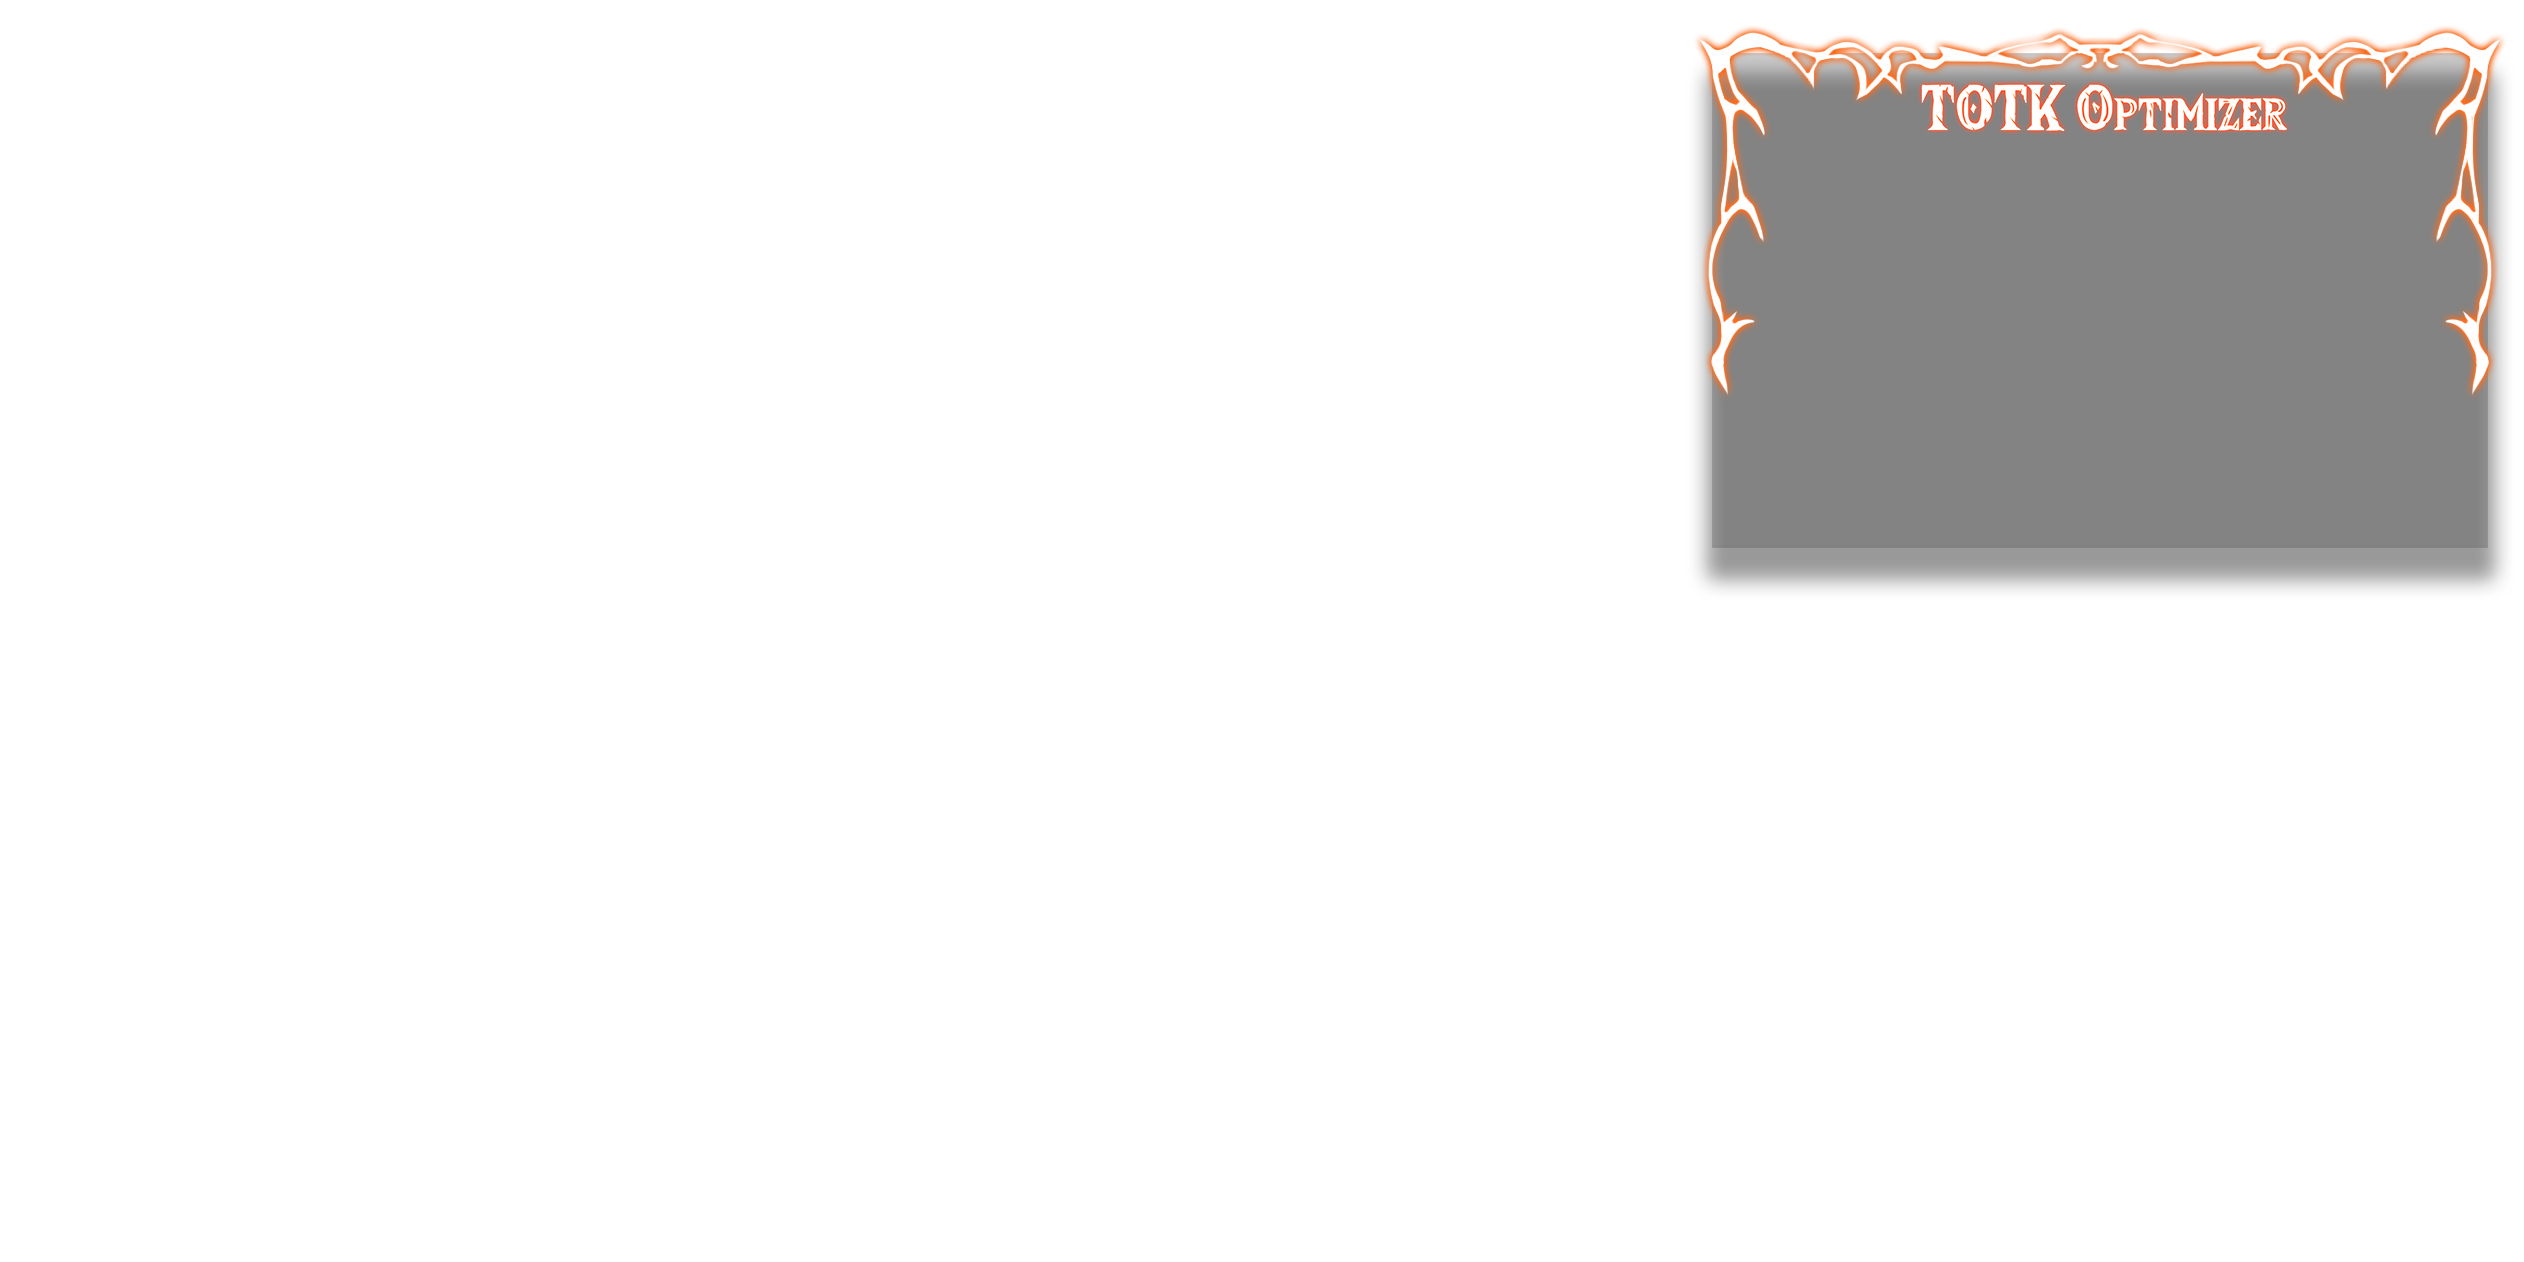
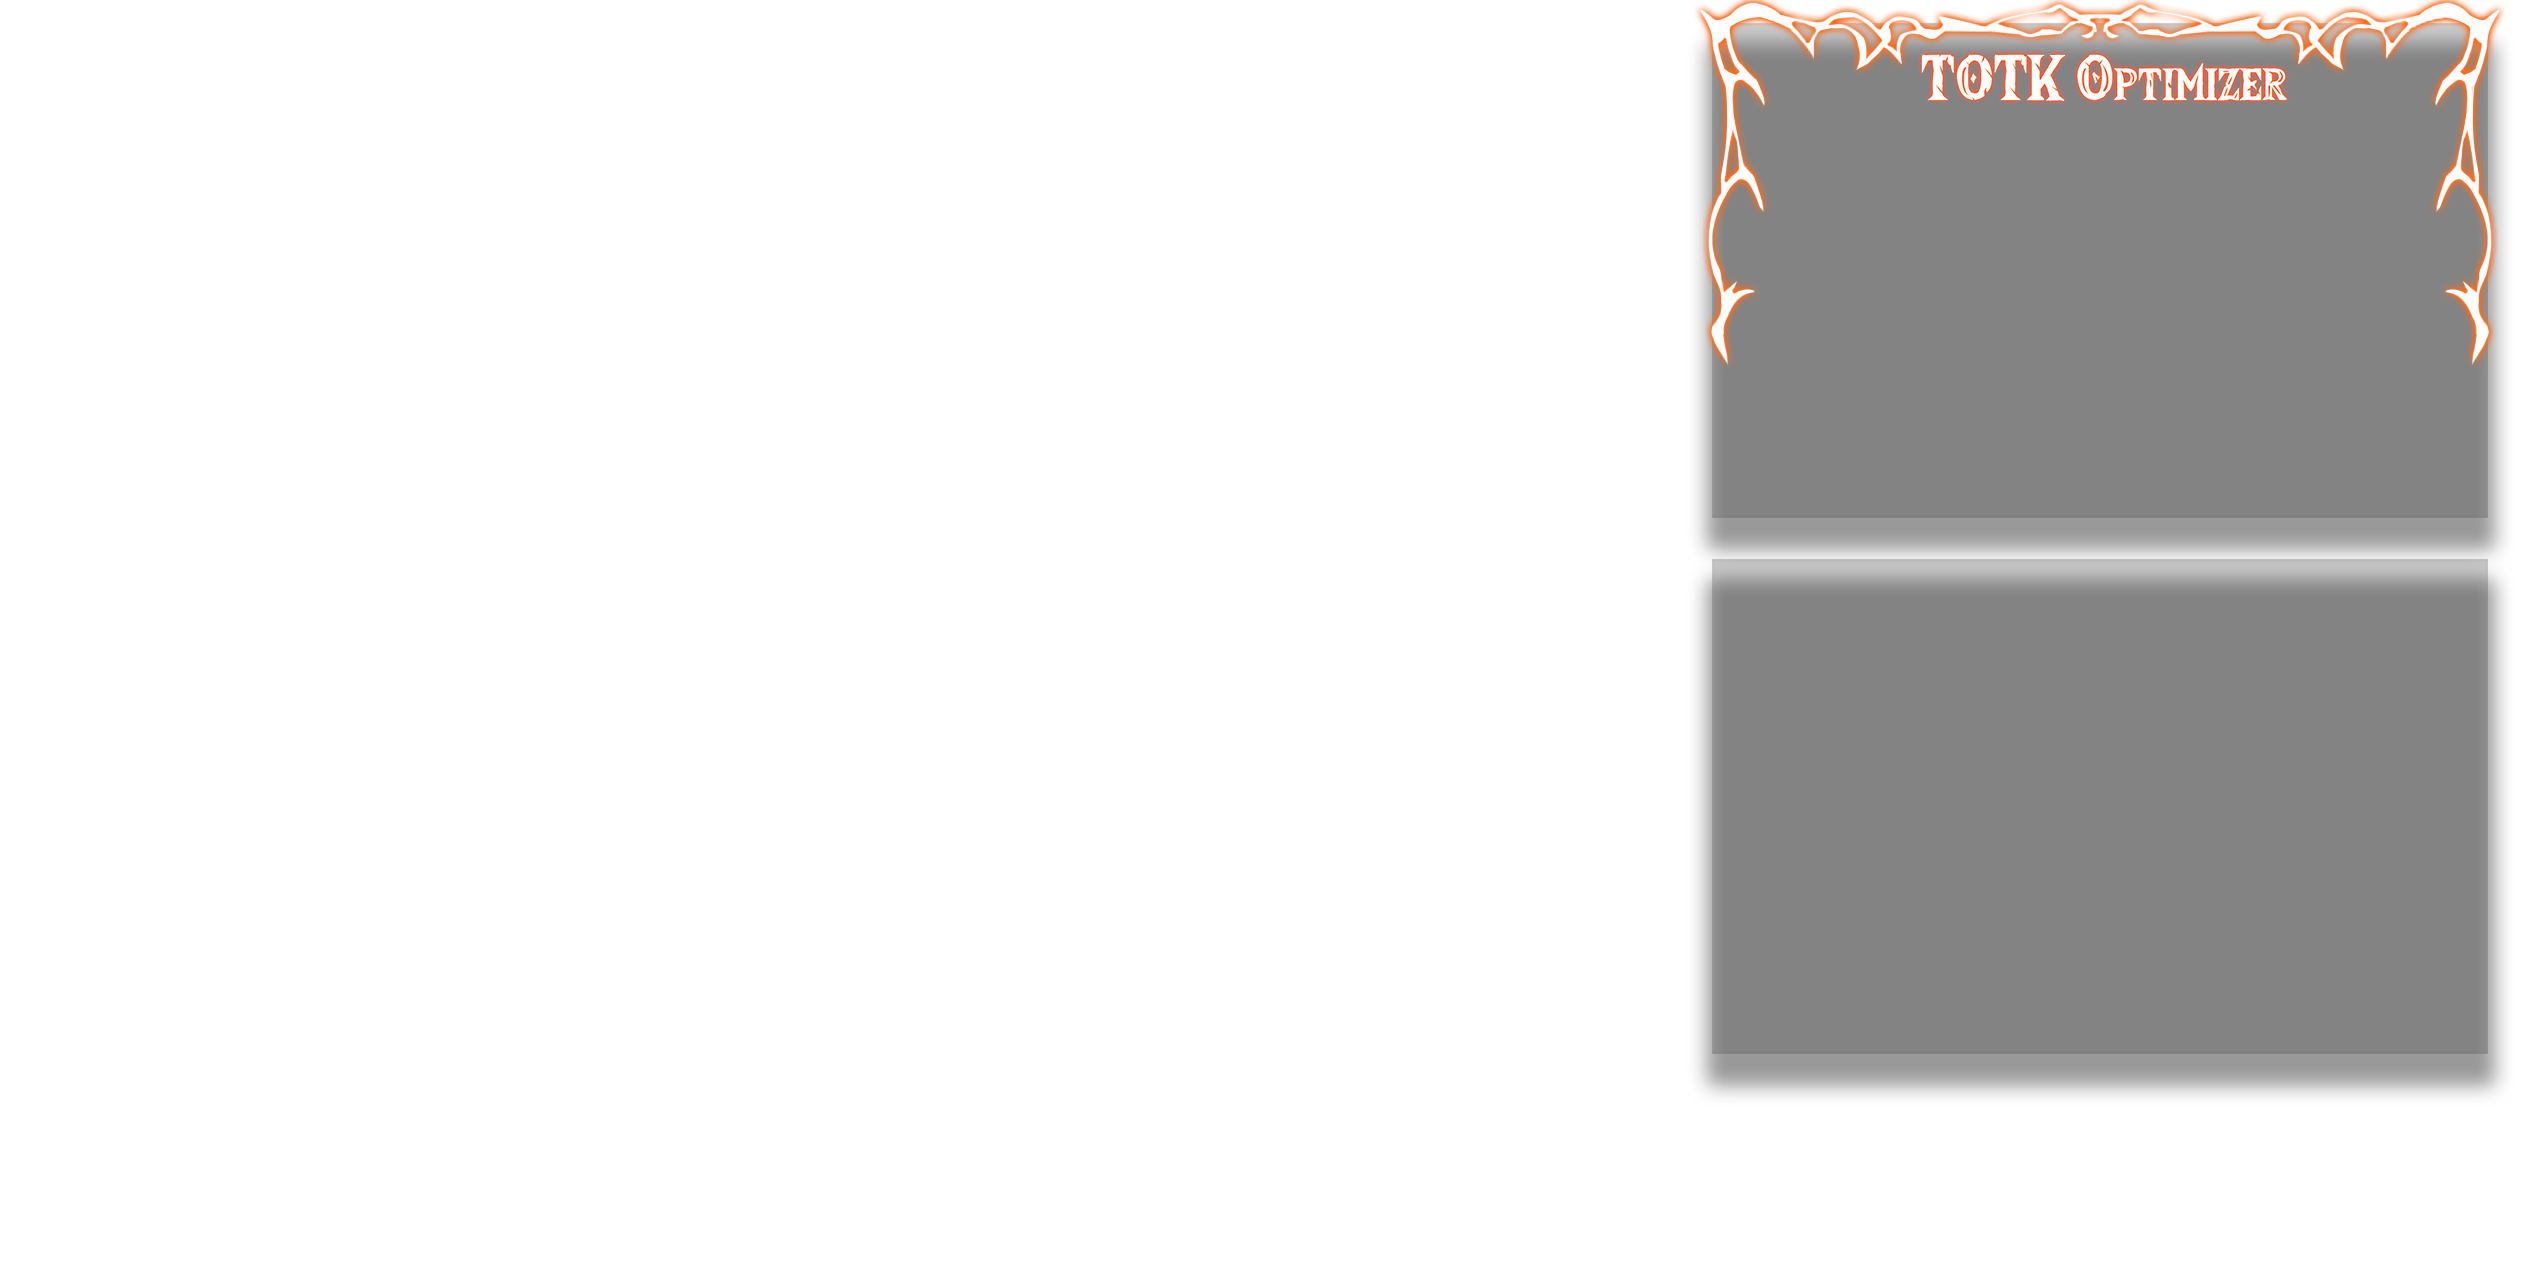
More new stuff

Changed region(s): [[0.649, 0.4017, 1.0, 0.8653], [0.649, 0.0, 1.0, 0.309]]

diff --git a/src/form.py b/src/form.py
@@ -67,6 +67,8 @@ class Manager:
         self.ultracam_beyond = load_json("UltraCam_Template.json", ultracambeyond)
         self.yuzu_settings = load_json("yuzu_presets.json", yuzu_presets_url)
 
+        self.benchmarks = {}
+
         if os.path.exists(os.path.join("UltraCam/UltraCam_Template.json")):
             with open("UltraCam/UltraCam_Template.json", "r", encoding="utf-8") as file:
                 self.ultracam_beyond = json.load(file)
@@ -381,7 +383,6 @@ class Manager:
                         description_name="UI"
                                                     )
         row += 40
-
 
         # XYZ create patches, not used anymore though.
         #self.create_patches()
@@ -756,11 +757,38 @@ class Manager:
         webbrowser.open(url)
         return
 
+
+    def load_benchmark(self):
+        keywords = ["Kakariko", "Great Sky Island", "Lookout Landing"]
+        benchmark_file = os.path.join(self.sdmc_dir, "TOTKBenchmark.txt")
+        try:
+            with open(benchmark_file, "r") as benchmarks:
+                for line in benchmarks:
+                    log.info(line.strip())
+                    for keyword in keywords:
+                        if keyword not in line:
+                            continue
+                        next_line = next(benchmarks).strip()
+                        pattern = r"(\d+(\.\d+)?)"
+                        frames = re.findall(pattern, next_line)
+                        numbers = [float(num[0]) if '.' in num[0] else int(num[0]) for num in frames]
+                        self.benchmarks[keyword] = {
+                            "Total Frames": numbers[0],
+                            "Average FPS": numbers[1],
+                            "1% Low FPS" : numbers[2],
+                            "0.1% Lowest FPS": numbers[3],
+                        }
+        except FileNotFoundError:
+            log.info("No Benchmarks detected.")
+        print(self.benchmarks)
+
+
     def load_canvas(self):
         # Main
         self.create_canvas()
         self.create_cheat_canvas()
         self.cheatcanvas.pack_forget()
+        self.load_benchmark()
 
     def Load_ImagePath(self):
         # Create a Gradiant for Yuzu.
@@ -885,31 +913,34 @@ class Manager:
         # Create Active Buttons.
         self.on_canvas.image_Button(
             canvas=canvas,
-            row=182, cul=794,
+            row=162, cul=794,
             img_1=self.master_sword_element, img_2=self.master_sword_element_active, effect_folder="effect1",
             command=lambda event: self.open_browser("Kofi")
         )
 
         self.on_canvas.image_Button(
             canvas=canvas,
-            row=182, cul=1007,
+            row=162, cul=1007,
             img_1=self.master_sword_element2, img_2=self.master_sword_element2_active,
             command=lambda event: self.open_browser("Github")
         )
 
         self.on_canvas.image_Button(
             canvas=canvas,
-            row=240, cul=978, anchor="c",
+            row=220, cul=978, anchor="c",
             img_1=self.hylian_element, img_2=self.hylian_element_active,
             command=lambda event: self.open_browser("Discord")
         )
 
         # Information text.
-        #text_widgetoutline2 = canvas.create_text(scale(1001) - scale(20), scale(126) -scale(80), text=f"{self.mode} TOTK Optimizer", tags="information", fill="black", font=biggyfont, anchor="center", justify="center", width=scale(325))
-        #text_widget2 = canvas.create_text(scale(1000)-scale(20), scale(126)-scale(80), text=f"{self.mode} TOTK Optimizer", tags="information", fill="#FBF8F3", font=biggyfont, anchor="center", justify="center", width=scale(325))
-
-        text_widgetoutline1 = canvas.create_text(scale(1001) -scale(20) -scale(10), scale(126) + scale(10), text=self.text_content, fill="black", font=biggyfont, anchor="center", justify="center", width=scale(325))
-        text_widget1 = canvas.create_text(scale(1000) - scale(20) -scale(10), scale(125) +scale(10), text=self.text_content, fill="#FBF8F3", font=biggyfont, anchor="center", justify="center", width=scale(325))
+        self.on_canvas.create_label(
+                                        master=self.window, canvas=canvas,
+                                        text=self.text_content,
+                                        description_name="Info_Label",
+                                        justify = "center",
+                                        row=113, cul=1001 - 153, font=biggyfont,
+                                        tags=["Info_Label"], tag=["Info_Label"], outline_tag="Info_Label"
+                                    )
 
     def Cheat_UI_elements(self, canvas):
         self.cheatbg = canvas.create_image(0, -scale(300), anchor="nw", image=self.blurbackground, tags="background")
@@ -1321,8 +1352,6 @@ class Manager:
 
                 config["Resolution"]["Width"] = str(New_Resolution[0])
                 config["Resolution"]["Height"] = str(New_Resolution[1])
-
-
 
                 ## WRITE IN CONFIG FILE FOR UC 2.0
                 with open(ini_file_path, 'w', encoding="utf-8") as configfile:

diff --git a/src/modules/checkpath.py b/src/modules/checkpath.py
@@ -13,6 +13,7 @@ def checkpath(self, mode):
         self.TOTKconfig = None
         self.nand_dir = None
         self.ryujinx_config = None
+        self.sdmc = None
         self.load_dir = os.getcwd()
         self.Yuzudir = os.getcwd()
         return
@@ -46,6 +47,7 @@ def checkpath(self, mode):
             config_parser = configparser.ConfigParser()
             config_parser.read(self.configdir, encoding="utf-8")
             self.nand_dir = os.path.normpath(config_parser.get('Data%20Storage', 'nand_directory', fallback=f'{self.Globaldir}/nand'))
+            self.sdmc_dir = os.path.normpath(config_parser.get('Data%20Storage', 'sdmc_directory', fallback=f'{self.Globaldir}/sdmc'))
             if self.nand_dir.startswith('"'):
                 self.nand_dir = self.nand_dir.strip('"')[0]
             self.load_dir = os.path.normpath(config_parser.get('Data%20Storage', 'load_directory', fallback=f'{self.Globaldir}/load'))
@@ -64,6 +66,7 @@ def checkpath(self, mode):
                 log.info("Detected a Ryujinx flatpak!")
                 self.Globaldir = flatpak
                 self.nand_dir = os.path.join(f"{self.Globaldir}", "bis", "user", "save")
+                self.sdmc_dir = os.path.join(f"{self.Globaldir}", "sdcard")
                 self.load_dir = os.path.join(f"{self.Globaldir}", "mods", "contents", "0100f2c0115b6000")
                 self.Yuzudir = os.path.join(home_directory, ".config", "Ryujinx", "mods", "contents",
                                             "0100f2c0115b6000")
@@ -73,6 +76,7 @@ def checkpath(self, mode):
             self.configdir = None
             self.TOTKconfig = None
             self.nand_dir = os.path.join(f"{self.Globaldir}", "bis", "user", "save")
+            self.sdmc_dir = os.path.join(f"{self.Globaldir}", "sdcard")
             self.load_dir = os.path.join(f"{self.Globaldir}", "mods", "contents", "0100f2C0115B6000")
             self.Yuzudir = os.path.join(home_directory, ".config", "Ryujinx", "mods", "contents", "0100f2C0115B6000")
             self.ryujinx_config = os.path.join(self.Globaldir, "Config.json")
@@ -90,6 +94,7 @@ def checkpath(self, mode):
                 config_parser = configparser.ConfigParser()
                 config_parser.read(self.configdir, encoding="utf-8")
                 self.nand_dir = os.path.normpath(config_parser.get('Data%20Storage', 'nand_directory', fallback=f'{os.path.join(yuzupath, "../user/nand")}'))
+                self.sdmc_dir = os.path.normpath(config_parser.get('Data%20Storage', 'sdmc_directory', fallback=f'{self.Globaldir}/sdmc'))
                 if self.nand_dir.startswith('"'):
                     self.nand_dir = self.nand_dir.strip('"')[0]
                 self.load_dir = os.path.join(os.path.normpath(config_parser.get('Data%20Storage', 'load_directory', fallback=f'{os.path.join(yuzupath, "../user/nand")}')), "0100F2C0115B6000")
@@ -129,6 +134,7 @@ def checkpath(self, mode):
                 config_parser = configparser.ConfigParser()
                 config_parser.read(self.configdir, encoding="utf-8")
                 self.nand_dir = os.path.normpath(config_parser.get('Data%20Storage', 'nand_directory', fallback=f'{self.Globaldir}/nand'))
+                self.sdmc_dir = os.path.normpath(config_parser.get('Data%20Storage', 'sdmc_directory', fallback=f'{self.Globaldir}/sdmc'))
                 if self.nand_dir.startswith('"'):
                     self.nand_dir = self.nand_dir.strip('"')[0]
                 self.load_dir = os.path.join(os.path.normpath(config_parser.get('Data%20Storage', 'load_directory', fallback=f'{self.Globaldir}/load')), "0100F2C0115B6000")
@@ -143,6 +149,7 @@ def checkpath(self, mode):
                 self.ryujinx_config = os.path.join(portablefolder, "Config.json")
                 self.nand_dir = os.path.join(f"{portablefolder}", "bis", "user", "save")
                 self.load_dir = os.path.join(f"{portablefolder}", "mods", "contents", "0100f2C0115b6000")
+                self.sdmc_dir = os.path.join(f"{portablefolder}", "sdcard")
                 self.Yuzudir = os.path.join(home_directory, "AppData", "Roaming", "Ryujinx", "mods", "contents", "0100f2C0115B6000")
                 return
             else:
@@ -152,6 +159,7 @@ def checkpath(self, mode):
                 self.ryujinx_config = os.path.join(self.Globaldir, "Config.json")
                 self.nand_dir = os.path.join(f"{self.Globaldir}", "bis", "user", "save")
                 self.load_dir = os.path.join(f"{self.Globaldir}", "mods", "contents", "0100f2C0115b6000")
+                self.sdmc_dir = os.path.join(f"{self.Globaldir}", "sdcard")
                 self.Yuzudir = os.path.join(home_directory, "AppData", "Roaming", "Ryujinx", "mods", "contents", "0100f2C0115B6000")
                 return
     # Ensure the path exists.

diff --git a/src/configuration/settings.py b/src/configuration/settings.py
@@ -95,7 +95,7 @@ title_id = "0100F2C0115B6000"
 textfont = (font, 13)
 btnfont = ("Bahnschrift", 10)
 bigfont = ("Triforce", 18)
-biggyfont = (font, 18, "bold")
+biggyfont = (font, 16, "bold")
 # set Colors
 textcolor = html_color[tcolor]
 outline_color = html_color[toutline]
